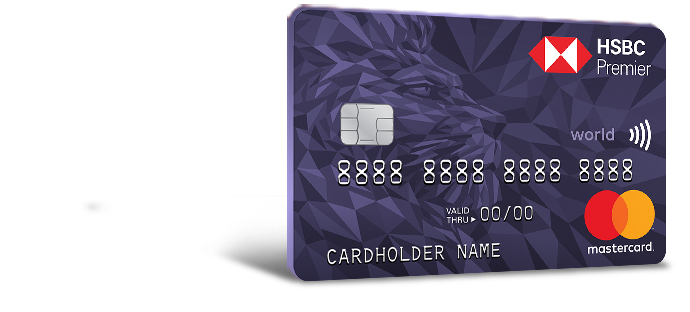
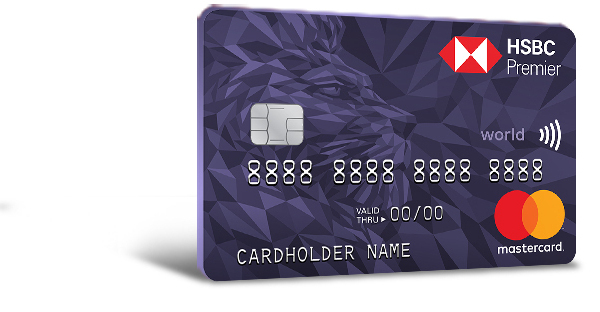
fix img

Changed region(s): [[0.21, 0.0, 0.99, 0.9231], [0.9, 0.3173, 0.93, 0.3462]]

diff --git a/source/index_vn.html b/source/index_vn.html
@@ -107,7 +107,7 @@
               <tr>
 				  <td align="left" style="padding: 0; margin: 0; border: none; line-height: 1.3; font-size: 16px; font-family: Arial, Helvetica, sans-serif !important;"><table width="100%" border="0" cellpadding="0" cellspacing="0" class="chs_body">
 					  <tr>
-						  <td width="345" align="left" style="padding: 0; margin: 0; border: none; line-height: 1.3; font-size: 16px; font-family: Arial, Helvetica, sans-serif !important;"><img src="image/chs_box_1.jpg" width="345" height="auto" alt="" style="display: block" /></td>
+						  <td width="300" align="left" style="padding: 0; margin: 0; border: none; line-height: 1.3; font-size: 16px; font-family: Arial, Helvetica, sans-serif !important;"><img src="image/chs_box_1.jpg" width="300" height="auto" alt="" style="display: block" /></td>
 						  <td width="28" align="left" style="padding: 0; margin: 0; border: none; line-height: 1.3; font-size: 16px; font-family: Arial, Helvetica, sans-serif !important;"><img src="image/dash.png" width="28" height="28" alt="" style="display: block" /></td>
 						  <td align="left" style="padding: 0; margin: 0; border: none; line-height: 1.3; font-size: 18px; font-family: Arial, Helvetica, sans-serif !important;"><strong style="color: #da0011;">TRẢI NGHIỆM ĐẲNG CẤP MUÔN PHƯƠNG CÙNG THẺ TÍN DỤNG HSBC PREMIER WORLD MASTERCARD<sup style="font-size: 14px;">® (*)</sup></strong></td>
 						  <td width="28" align="left" style="padding: 0; margin: 0; border: none; line-height: 1.3; font-size: 16px; font-family: Arial, Helvetica, sans-serif !important;"><img src="image/dash.png" width="28" height="28" alt="" style="display: block" /></td>

diff --git a/source/index_en.html b/source/index_en.html
@@ -107,7 +107,7 @@
               <tr>
 				  <td align="left" style="padding: 0; margin: 0; border: none; line-height: 1.3; font-size: 16px; font-family: Arial, Helvetica, sans-serif !important;"><table width="100%" border="0" cellpadding="0" cellspacing="0" class="chs_body">
 					  <tr>
-						  <td width="345" align="left" style="padding: 0; margin: 0; border: none; line-height: 1.3; font-size: 16px; font-family: Arial, Helvetica, sans-serif !important;"><img src="image/chs_box_1.jpg" width="345" height="auto" alt="" style="display: block" /></td>
+						  <td width="300" align="left" style="padding: 0; margin: 0; border: none; line-height: 1.3; font-size: 16px; font-family: Arial, Helvetica, sans-serif !important;"><img src="image/chs_box_1.jpg" width="300" height="auto" alt="" style="display: block" /></td>
 						  <td width="28" align="left" style="padding: 0; margin: 0; border: none; line-height: 1.3; font-size: 16px; font-family: Arial, Helvetica, sans-serif !important;"><img src="image/dash.png" width="28" height="28" alt="" style="display: block" /></td>
 						  <td align="left" style="padding: 0; margin: 0; border: none; line-height: 1.3; font-size: 18px; font-family: Arial, Helvetica, sans-serif !important;"><strong style="color: #da0011;">BASK IN THE LAP OF LUXURY ALL AROUND THE WORLD WITH YOUR HSBC PREMIER WORLD MASTER CREDIT CARD<sup style="font-size: 14px;">® (*)</sup></strong></td>
 						  <td width="28" align="left" style="padding: 0; margin: 0; border: none; line-height: 1.3; font-size: 16px; font-family: Arial, Helvetica, sans-serif !important;"><img src="image/dash.png" width="28" height="28" alt="" style="display: block" /></td>
